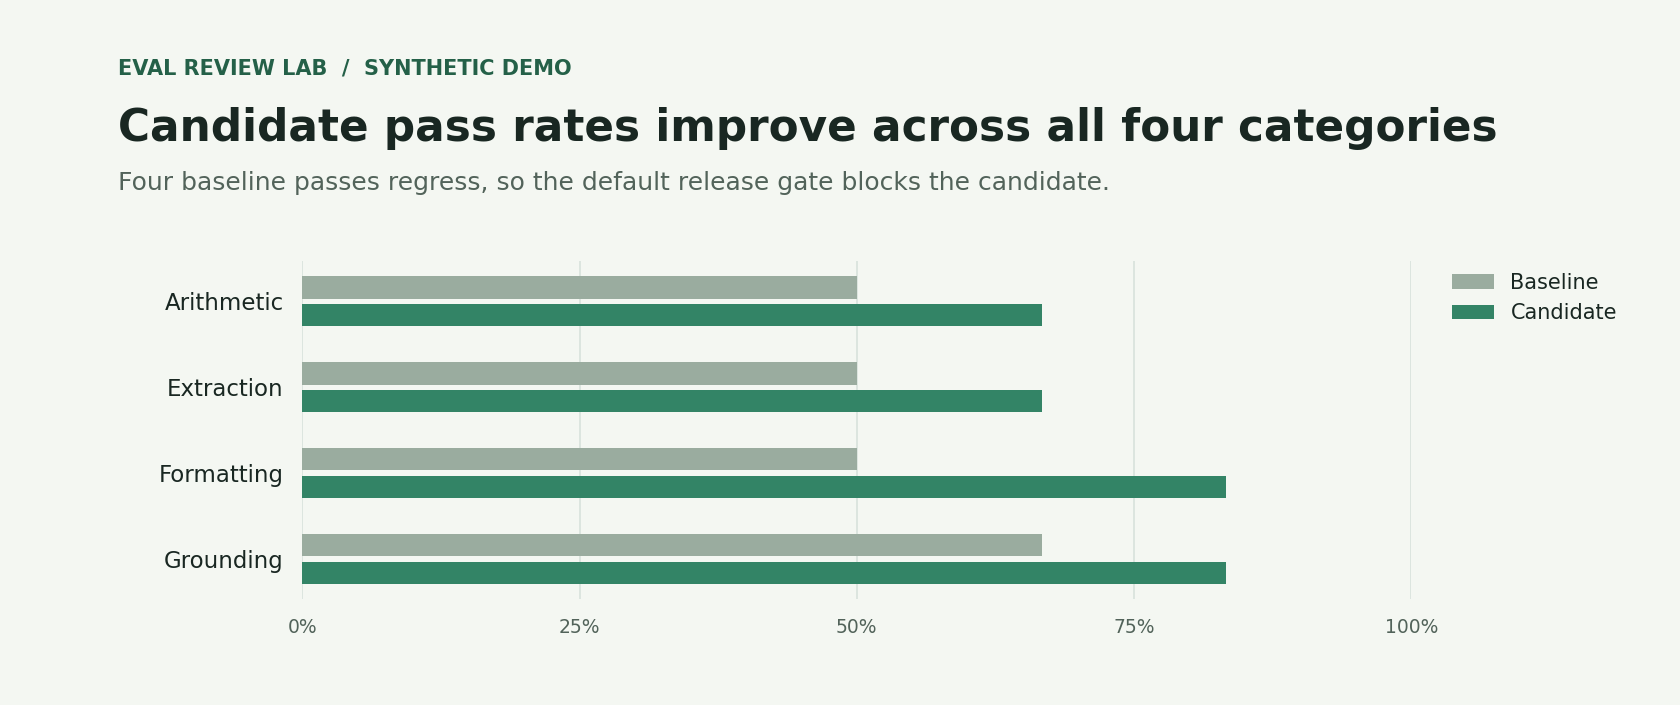
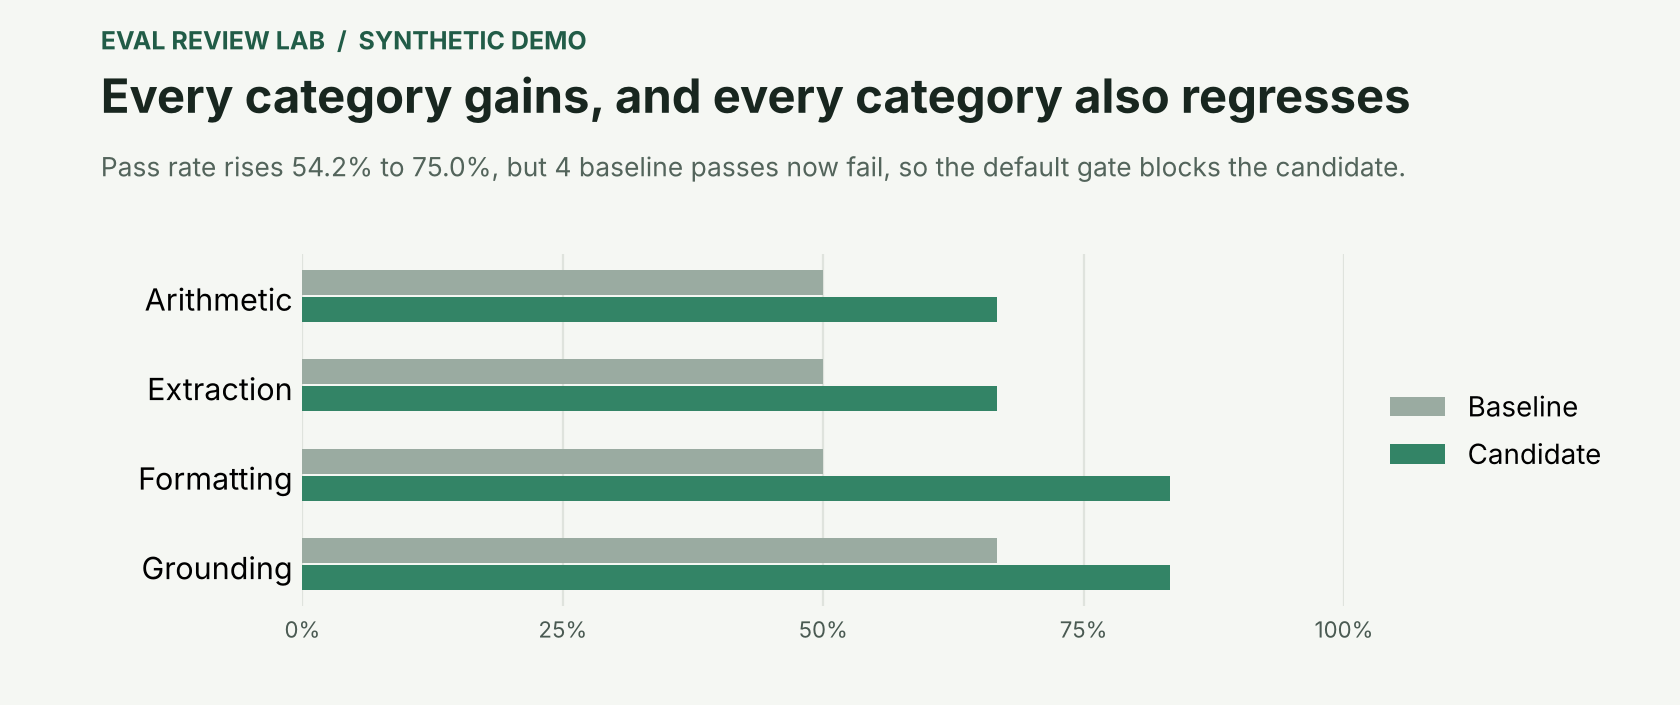
Add 95% interval, packaging, license, live-demo docs and chart fix

diff --git a/docs/index.html b/docs/index.html
@@ -143,7 +143,11 @@ footer { padding: 18px 0 30px; font-size: .82rem; }
     "disagreements": 2,
     "agreement_rate": 0.9583333333333334,
     "cohens_kappa": 0.9064327485380118,
-    "paired_p_value": 0.2668457031250002
+    "paired_p_value": 0.2668457031250002,
+    "delta_ci_pp": [
+      -7.407672281696523,
+      49.07433894836319
+    ]
   },
   "categories": {
     "Arithmetic": {
@@ -1761,7 +1765,8 @@ function renderCases() {
 for (const id of ["outcome", "category", "split"]) get(id).addEventListener("change", renderCases);
 const kappa = overall.cohens_kappa;
 const pValue = overall.paired_p_value;
-get("method").textContent = `Cohen’s κ ${kappa === null ? "unavailable for these ratings" : kappa.toFixed(2)} · Exact McNemar p ${pValue < 0.001 ? "< 0.001" : pValue.toFixed(3)}`;
+const [ciLow, ciHigh] = overall.delta_ci_pp;
+get("method").textContent = `Change 95% CI ${ciLow.toFixed(1)} to ${ciHigh.toFixed(1)} pp · Cohen’s κ ${kappa === null ? "unavailable for these ratings" : kappa.toFixed(2)} · Exact McNemar p ${pValue < 0.001 ? "< 0.001" : pValue.toFixed(3)}`;
 renderCases();
 </script>
 </body>

diff --git a/eval_review/assets/report.js b/eval_review/assets/report.js
@@ -124,5 +124,6 @@ function renderCases() {
 for (const id of ["outcome", "category", "split"]) get(id).addEventListener("change", renderCases);
 const kappa = overall.cohens_kappa;
 const pValue = overall.paired_p_value;
-get("method").textContent = `Cohen’s κ ${kappa === null ? "unavailable for these ratings" : kappa.toFixed(2)} · Exact McNemar p ${pValue < 0.001 ? "< 0.001" : pValue.toFixed(3)}`;
+const [ciLow, ciHigh] = overall.delta_ci_pp;
+get("method").textContent = `Change 95% CI ${ciLow.toFixed(1)} to ${ciHigh.toFixed(1)} pp · Cohen’s κ ${kappa === null ? "unavailable for these ratings" : kappa.toFixed(2)} · Exact McNemar p ${pValue < 0.001 ? "< 0.001" : pValue.toFixed(3)}`;
 renderCases();

diff --git a/eval_review/core.py b/eval_review/core.py
@@ -131,6 +131,14 @@ def paired_p_value(improvements, regressions):
     return min(1.0, 2 * tail)
 
 
+def delta_interval(count, improvements, regressions, z=1.96):
+    """Wald 95% interval (in percentage points) for the paired pass-rate change."""
+    change = improvements - regressions
+    variance = (improvements + regressions - change**2 / count) / count**2
+    half = z * math.sqrt(max(variance, 0.0))
+    return [100 * (change / count - half), 100 * (change / count + half)]
+
+
 def summarize(rows):
     count = len(rows)
     baseline = sum(row["baseline_pass"] for row in rows)
@@ -178,6 +186,7 @@ def evaluate(cases, max_regressions, min_delta_pp):
             **overall,
             "cohens_kappa": kappa(contingency) if len(reviewer_pairs) == 1 else None,
             "paired_p_value": paired_p_value(overall["improvements"], overall["regressions"]),
+            "delta_ci_pp": delta_interval(overall["cases"], overall["improvements"], overall["regressions"]),
         },
         "categories": {name: summarize(categories[name]) for name in sorted(categories)},
         "gate": {

diff --git a/tests/test_eval_review.py b/tests/test_eval_review.py
@@ -6,7 +6,7 @@ import tempfile
 import unittest
 from pathlib import Path
 
-from eval_review.core import InputError, evaluate, kappa, paired_p_value, read_cases
+from eval_review.core import InputError, delta_interval, evaluate, kappa, paired_p_value, read_cases
 
 ROOT = Path(__file__).resolve().parents[1]
 EXAMPLE = ROOT / "data" / "example.jsonl"
@@ -64,6 +64,12 @@ class InputTests(unittest.TestCase):
             data.write_text("\n".join(records), encoding="utf-8")
             with self.assertRaisesRegex(InputError, pattern):
                 read_cases(data)
+
+    def test_delta_interval_matches_paired_wald_formula(self):
+        low, high = delta_interval(24, 9, 4)
+        self.assertAlmostEqual(low, -7.41, places=1)
+        self.assertAlmostEqual(high, 49.07, places=1)
+        self.assertEqual(delta_interval(10, 0, 0), [0.0, 0.0])
 
     def test_duplicate_case_reports_exact_line(self):
         item = json.dumps(self.record)

diff --git a/README.md b/README.md
@@ -1,14 +1,23 @@
 # Eval Review Lab
 
+[![Checks](https://github.com/tavialaw7/eval-review-lab/actions/workflows/checks.yml/badge.svg)](https://github.com/tavialaw7/eval-review-lab/actions/workflows/checks.yml)
+[![Live demo](https://img.shields.io/badge/live%20demo-open-338466)](https://tavialaw7.github.io/eval-review-lab/)
+
 A human-in-the-loop evaluation pipeline for comparing two LLM versions on the same prompts. It turns reviewer verdicts into a release decision and gives reviewers the case-level evidence behind it.
 
-**Demo finding.** The candidate passes 18 of 24 cases versus 13 for the baseline, a gain of **20.8 percentage points**. Four previously passing cases fail, so the default release gate blocks the candidate.
+**Demo finding.** The candidate passes 18 of 24 cases versus 13 for the baseline, a gain of **20.8 percentage points** (95% CI −7.4 to +49.1). Four previously passing cases fail, so the default release gate blocks the candidate.
+
+**[Open the live demo](https://tavialaw7.github.io/eval-review-lab/)**, no install needed.
+
+## Why I built this
+
+I do human evaluation and annotation work on LLM projects, where a model's average score can improve while specific answers quietly get worse. I built this to make that visible: pair every prompt, find the regressions, and keep the reviewer evidence one click away. Everything here is synthetic. No data comes from any employer or client.
 
 ![Grouped bars showing baseline and candidate pass rates across four evaluation categories](docs/demo-results.png)
 
 ## Run the demo
 
-Open [docs/demo.html](docs/demo.html) in a browser after downloading or cloning the repo. The demo works offline. In **Case review**, select **Regression** and **Formatting**, then open **ER-015** to inspect the exact prompt, responses, scores, and review notes.
+Open the [live demo](https://tavialaw7.github.io/eval-review-lab/), or open [docs/index.html](docs/index.html) locally. The demo works offline. In **Case review**, select **Regression** and **Formatting**, then open **ER-015** to inspect the exact prompt, responses, scores, and review notes.
 
 Generate a fresh report with Python 3.10 or later. The project uses the Python standard library, SQLite, and browser-native JavaScript. It requires no API keys or package installs.
 
@@ -16,6 +25,8 @@ Generate a fresh report with Python 3.10 or later. The project uses the Python s
 python3 -m eval_review data/example.jsonl
 python3 -m unittest discover -s tests -v
 ```
+
+Or install the CLI with `pip install .` and run `eval-review data/example.jsonl`.
 
 Open `build/index.html` for the dashboard. Use `build/report.json` to consume the same metrics and case details in another tool.
 
@@ -42,6 +53,7 @@ flowchart LR
 | Regression | A case the baseline passes and the candidate fails. An improvement is the reverse. |
 | Change | Candidate pass rate minus baseline pass rate in percentage points. |
 | Reviewer agreement | Fraction of baseline and candidate responses with matching binary verdicts. Cohen’s κ is reported for a consistent reviewer pair when defined. |
+| 95% interval | Wald interval for the paired pass-rate change, in percentage points. It is wide at 24 cases. |
 | Exact McNemar p-value | Two-sided paired comparison of improvement and regression counts. The release gate uses the configured thresholds independently. |
 | Release gate | The regression count must be at most `--max-regressions` (default 0), and the pass-rate change must be at least `--min-delta-pp` (default 0). |
 
@@ -55,4 +67,6 @@ Each JSONL line contains one case with `id`, `category`, `prompt`, `baseline`, a
 - Reports embed the full input evidence. Share generated reports only with people authorized to see that evidence.
 - GitHub Actions is configured to run the tests and verify that the sample produces both reports and the expected blocked exit status.
 
-[Interview walkthrough](docs/interview.md)
+[Design decisions and FAQ](docs/design-decisions.md) · [Review rubric](docs/rubric.md)
+
+MIT licensed. Built by [Tavia](https://github.com/tavialaw7).

diff --git a/docs/design-decisions.md b/docs/design-decisions.md
@@ -1,0 +1,18 @@
+# Design decisions and FAQ
+
+## Walkthrough
+
+1. **Show the result.** Open the [live demo](https://tavialaw7.github.io/eval-review-lab/). The candidate gains 20.8 percentage points, but four existing passes regress.
+2. **Show the evidence.** Filter for **Regression** and **Formatting**, then expand **ER-015**. The candidate gives the right date but adds extra text against a date-only instruction.
+3. **Show a reviewer split.** Reset the category filter and check **Reviewer disagreement only** with **Regression** still selected. In **ER-009**, the candidate includes an extra label, and the notes show where the reviewers drew different acceptance boundaries.
+4. **Show the automation.** Run the CLI with `--enforce-gate`. The exit status is 1 and both report files are written for diagnosis.
+
+## Design questions
+
+| Question | Discussion point |
+| --- | --- |
+| Why pair by prompt? | It holds the evaluation item constant and exposes improved and regressed cases directly. Unpaired averages lose that evidence. |
+| Why use SQLite? | The SQL query groups ratings per case and variant, then joins the two sides. Primary keys enforce reviewer uniqueness after validation. In-memory storage keeps the demo reproducible and avoids operations overhead. |
+| What does reviewer agreement measure? | Raw agreement counts matching verdicts. Cohen’s κ adjusts for expected chance agreement under the reviewer marginals. It is unavailable when the reviewer pair varies or expected agreement is 100%. |
+| Does this sample prove the candidate is better? | The 24 cases are synthetic. The exact paired p-value is about 0.267, the 95% interval on the change spans −7.4 to +49.1 points, and the sample offers no evidence about performance on production traffic. The gate is a policy rule with its own thresholds. |
+| What would you change for a real release? | Build a representative challenge set and track rubric, model, and dataset versions. Define treatment for high-severity cases and specify adjudication, acceptable regression thresholds, and evaluation coverage before testing. |
